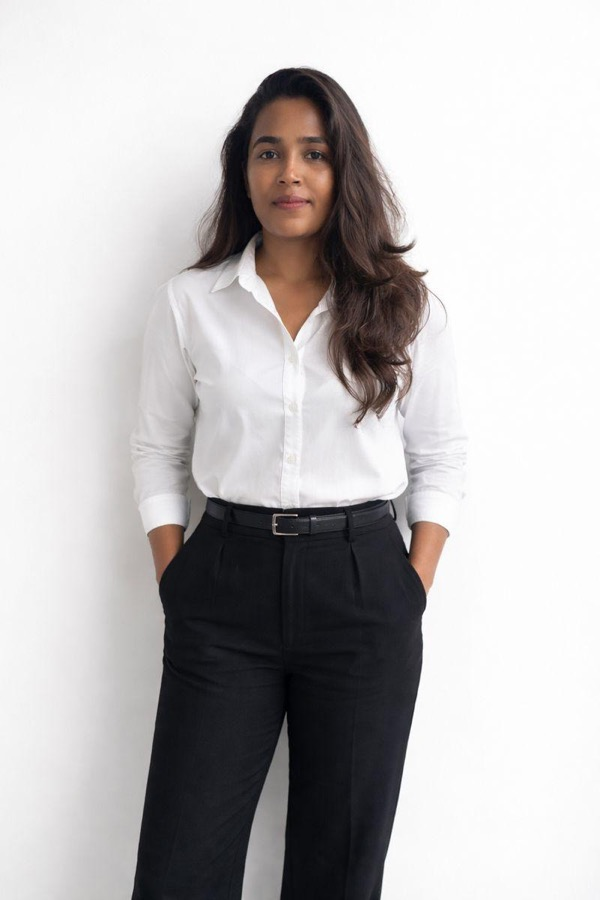
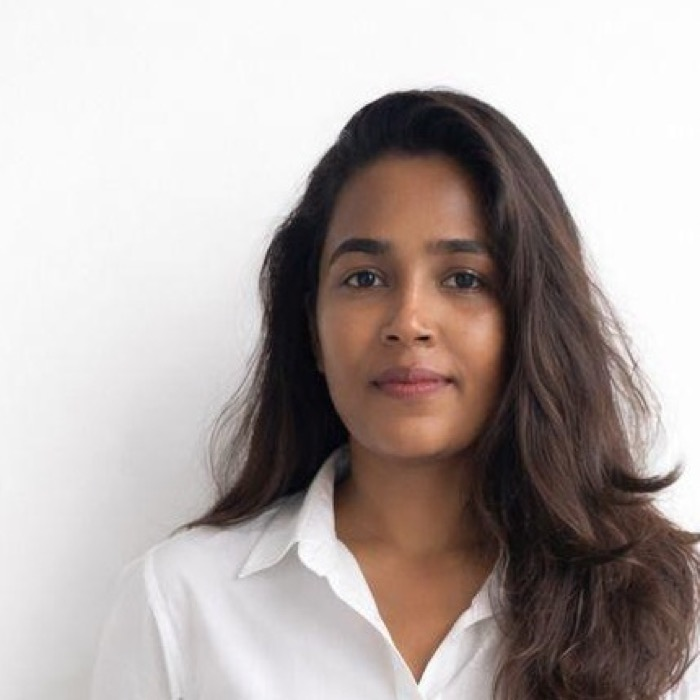
Use precisely centered face crop for profile photo instead of CSS transform hack

diff --git a/style.css b/style.css
@@ -195,9 +195,7 @@ h1 {
   width: 100%;
   height: 100%;
   object-fit: cover;
-  object-position: 50% 15%;
-  transform: scale(1.9);
-  transform-origin: 50% 12%;
+  object-position: center;
   border-radius: 50%;
   display: block;
   background: var(--bg-alt);
